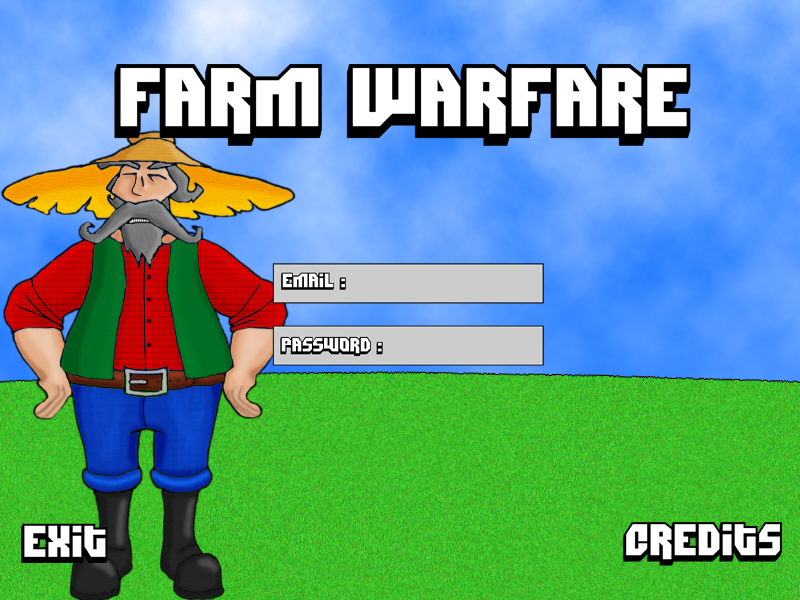
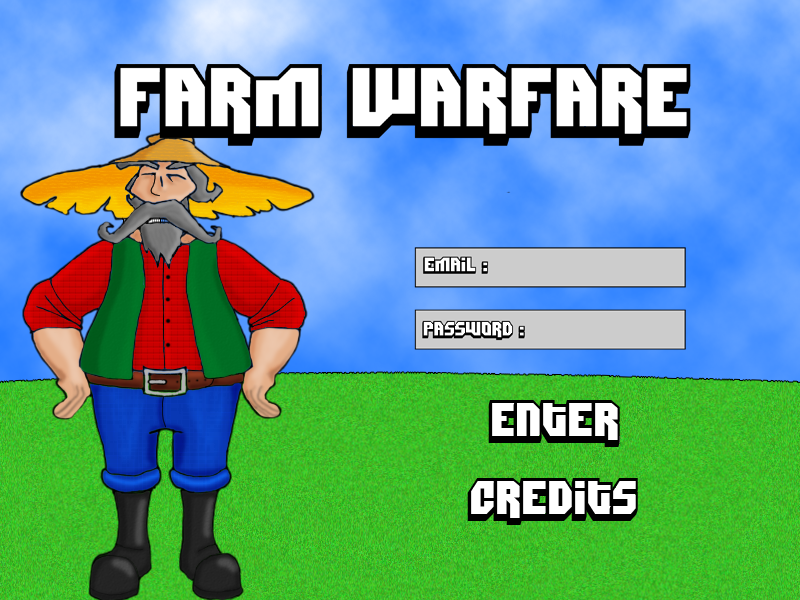
Mise en place nouvelle image

Changed region(s): [[0.0, 0.21, 0.875, 1.0], [0.5625, 0.78, 1.0, 0.96], [0.5938, 0.66, 0.7812, 0.75]]

diff --git a/Constant/js/client.js b/Constant/js/client.js
@@ -9,7 +9,21 @@
 	};
 	var Batiment = {
 		name : '',
-		sprite : 0
+		sprite : {
+			silo : {
+				decX : 0,
+				decY : -150
+			},
+			grange : {
+				decX : -128,
+				decY : -378
+			},
+			chambre : {
+				decX : -128,
+				decY : -292
+			}
+		}
+
 	}
 
 	// Lorsque l'on submit notre formulaire de connection
@@ -75,19 +89,21 @@
 
 	var loadmap = function(map) {
 		ppmap = $('#ppISO').pp3Diso({
-	        map: map,          		// la map
-	        mapId:1,                // id de la map
-	        tx:64,                  // dimension x des tuiles
-	        ty:32,                  // dimension y des tuiles
-	        auto_size:false,		// aggrandissement auto de la fenetre
-	        mousewheel:true,		// zoom avec la molette
-	        pathfinding:true,		// chemin auto pour le deplacement de l'avatar
+	        map: 		 map,       // la map
+	        mapId: 		 1,         // id de la map
+	        tx: 		 256,       // dimension x des tuiles
+	        ty: 		 128,       // dimension y des tuiles
+	        prefix: 	 '',		// prefix avant les nom d'images
+	        auto_size:   false,		// aggrandissement auto de la fenetre
+	        mousewheel:  true,		// zoom avec la molette
+	        zoom: 		 0.5,		// zoom par default
+	        pathfinding: true,		// chemin auto pour le deplacement de l'avatar
 	        onmoveavatar:function(x, y, mapid) {
 	            mouseClick(x, y);// Fonction que l'on fait quand on clique pour bouger le perso
 	        }
 	    });
-		ppmap.avatar(2, 2, 'images/avatar.png', 15, -30); //notre avatar
-		ppmap.cursor('images/curseur_on.png', 'images/curseur_off.png', 0, 0); //notre curseur
+		ppmap.avatar(2, 2, 'images/sprite.png', 15, -30, true, 4); //notre avatar
+		ppmap.cursor('images/cursor-on.png', 'images/cursor-off.png', 0, 0); //notre curseur
 
 	};
 
@@ -95,13 +111,11 @@
 		console.log(x + " / " + y);
 		if(User.isPlanting == true)
 		{
-			console.log("addPlante");
-			ppmap.changeOneMap(x,y,3);
+			ppmap.changeOneMap(x,y,2);
 		}
 		else if(User.isBuilding == true)
 		{
-			console.log("addBuilding");
-			ppmap.addBuilding(x, y, 'images/'+Batiment.sprite, 0, 0);
+			ppmap.addBuilding(x, y, 'images/'+Batiment.name + '.png', Batiment.sprite[Batiment.name].decX, Batiment.sprite[Batiment.name].decY);
 		}
 	};
 
@@ -112,22 +126,23 @@
 
 	$(".button_menu_plantes").click(function(){
 		User.isPlanting = true;
+		User.isBuilding = false;
 		var type = $(this).attr('id').substr(20,$(this).attr('id').length);
-		ppmap.changeCursor('images/map-3.png','images/curseur_off.png',0,0);
+		ppmap.changeCursor('images/2.png','images/cursor-off.png',0,0);
 	});
 
 	$(".button_menu_batiments").click(function(){
 		User.isBuilding = true;
+		User.isPlanting = false;
 		var type = $(this).attr('id').substr(22,$(this).attr('id').length);
 		Batiment.name = type;
-		Batiment.sprite = type+".png";
-		ppmap.changeCursor('images/'+type+'.png','images/curseur_off.png',0,0);
+		ppmap.changeCursor('images/'+type+'.png','images/cursor-off.png',Batiment.sprite[Batiment.name].decX,Batiment.sprite[Batiment.name].decY);
 	});
 
 	$(".end_menu_build").click(function(){
 		User.isBuilding = false;
 		User.isPlanting = false;
-		ppmap.changeCursor('images/curseur_on.png','images/curseur_off.png',0,0);
+		ppmap.changeCursor('images/cursor-on.png','images/cursor-off.png',0,0);
 	});
 
 })(jQuery);

diff --git a/Constant/css/global.css b/Constant/css/global.css
@@ -87,24 +87,28 @@
 
 #username {
 	position: absolute;
-	top: 41.5%;
-	left: 28%;
-	width: 184px;
+	top: 256px;
+	left: 500px;
+	width: 193px;
 	height: 38px;
 }
 
 #password {
 	position: absolute;
-	top: 51%;
-	left: 31%;
-	width: 145px;
-	height: 37px;
+	top: 318px;
+	left: 537px;
+	width: 156px;
+	height: 38px;
 }
 
 #submitlogin {
 	position: absolute;
-	top: 59%;
-	left: 29%;
+	top: 405px;
+	left: 475px;
+	height: 50px;
+	width: 175px;
+	cursor: pointer;
+	opacity: 0;
 }
 
 #loginform {

diff --git a/Constant/index.html b/Constant/index.html
@@ -10,7 +10,7 @@
 				<form action="" id="loginform">
 					<input type="text" value="" id="username" name="username" placeholders="User">
 					<input type="password" value="" id="password" name="password">
-					<input type="submit" value="Submit" id="submitlogin">
+					<input type="submit" value="" id="submitlogin">
 				</form>			
 			</div>
 			<div id="div_play">
